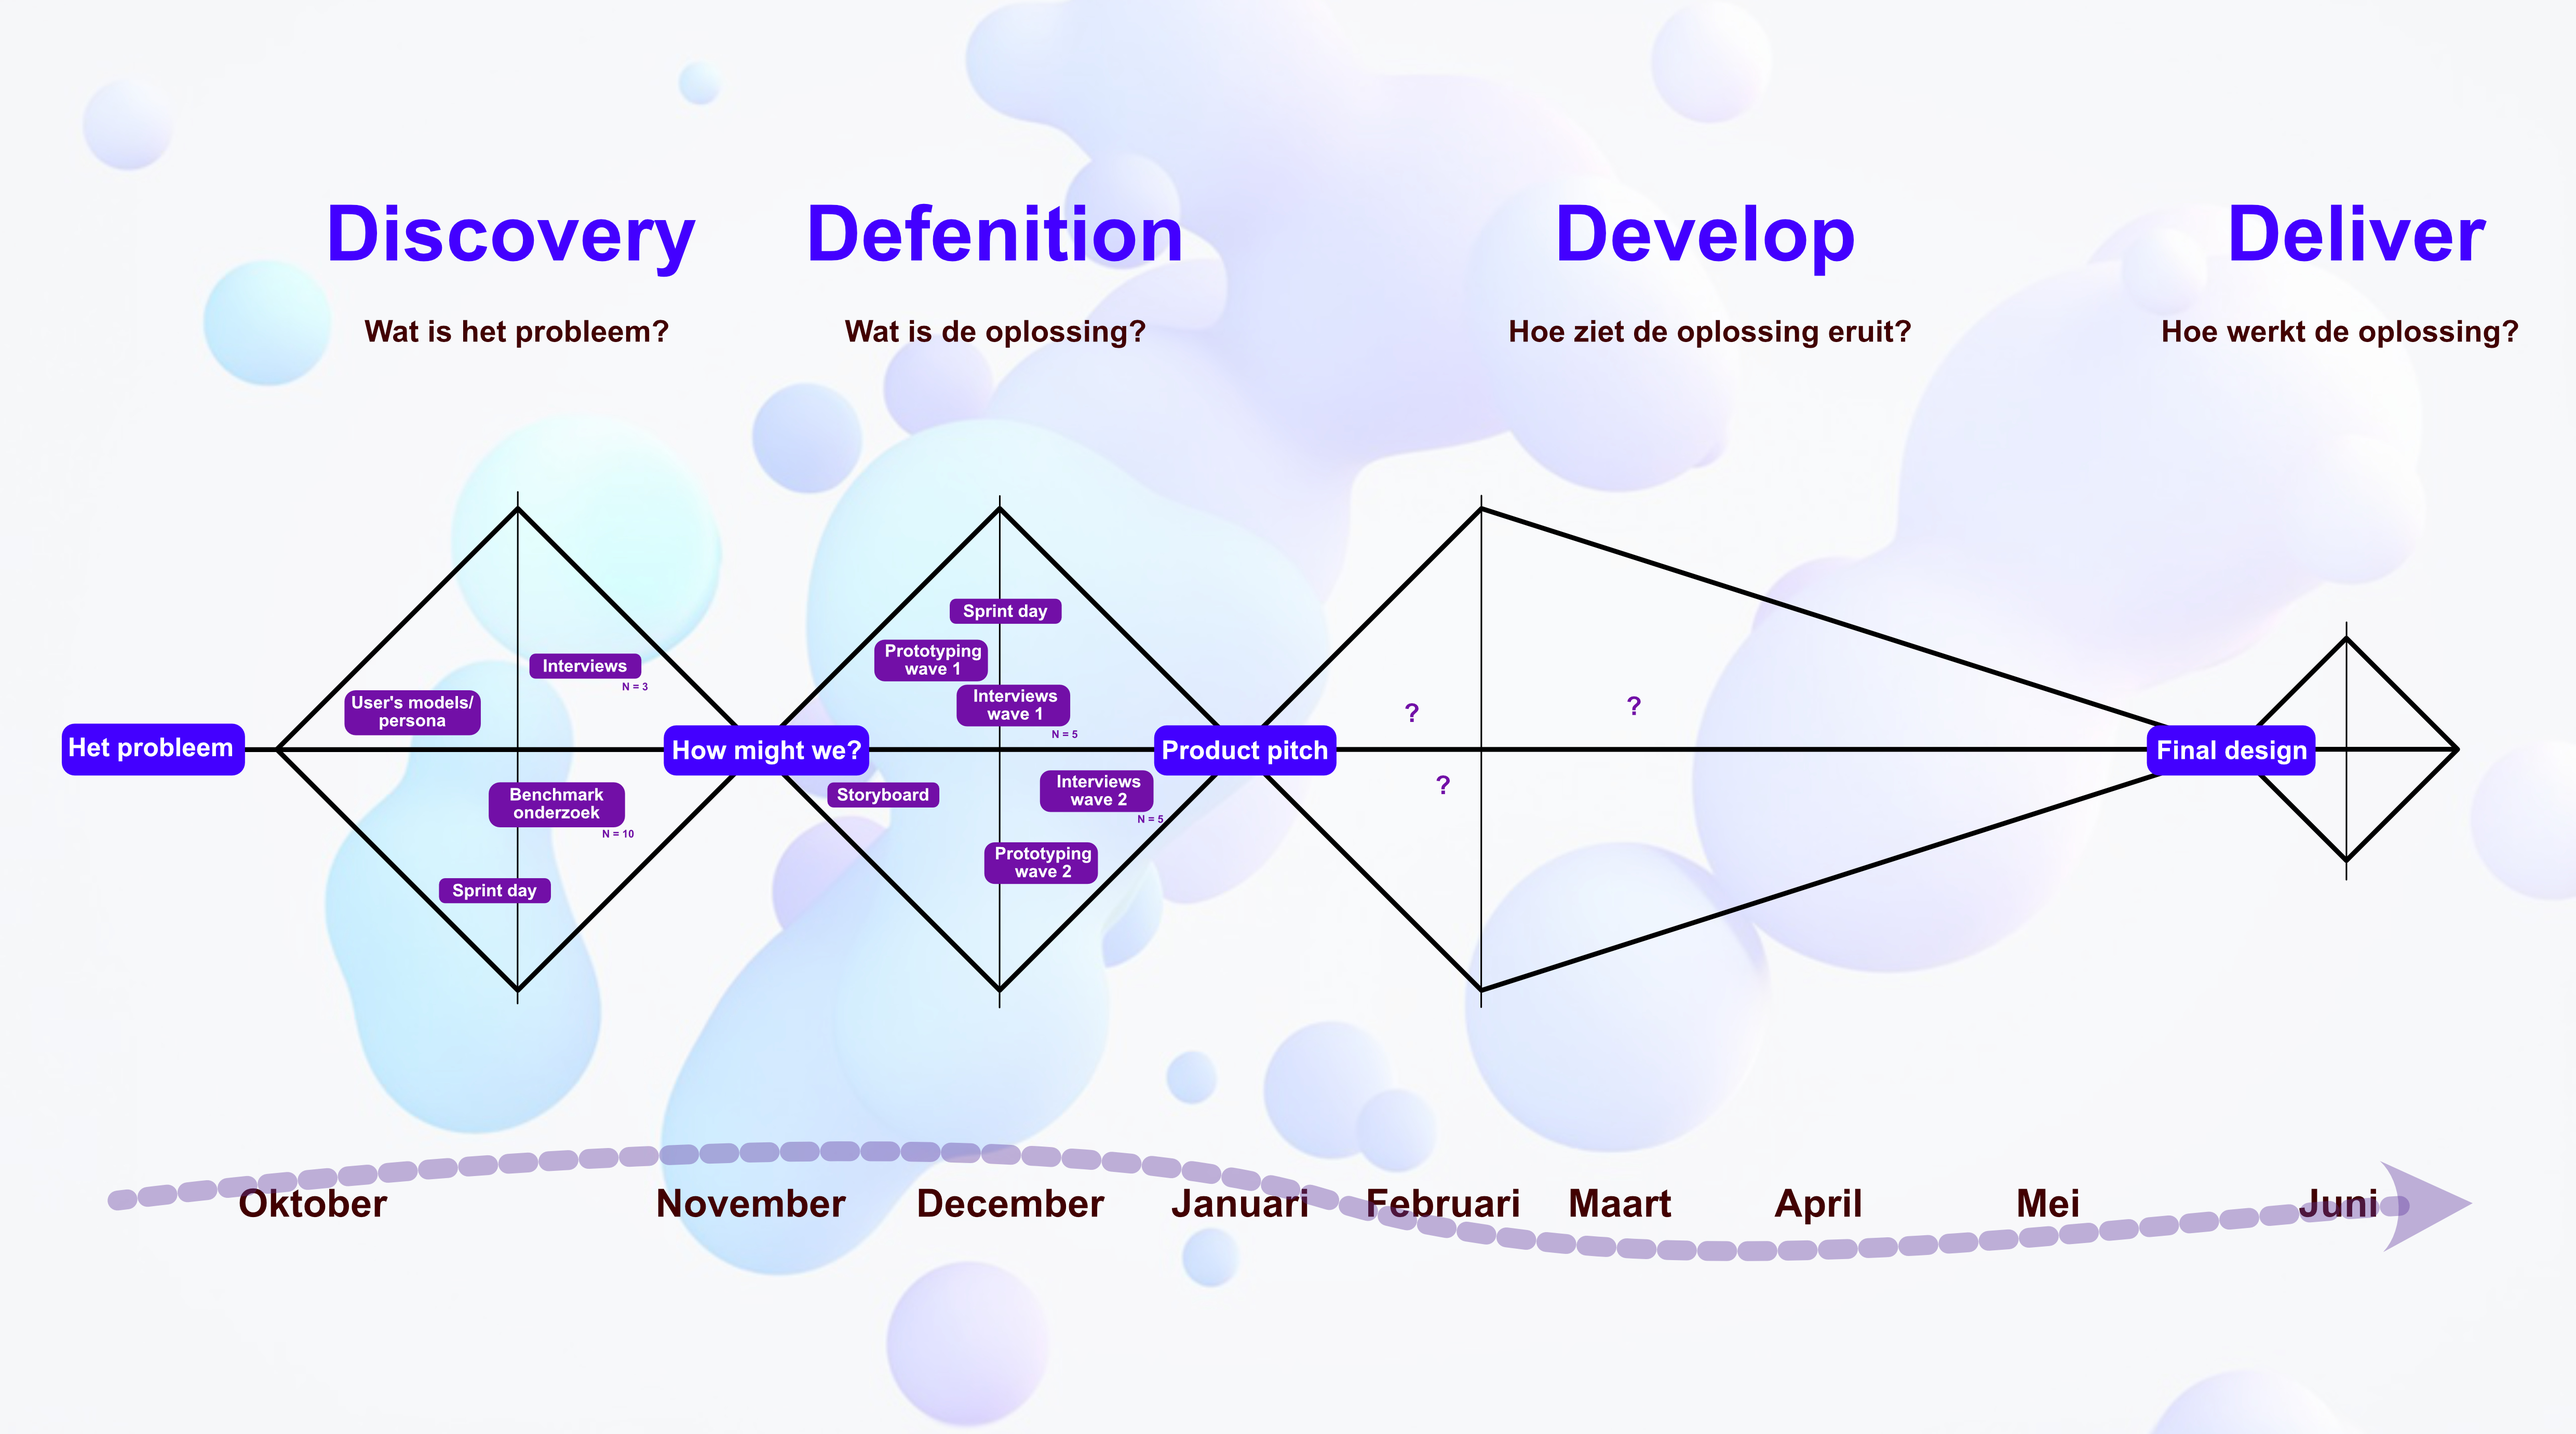
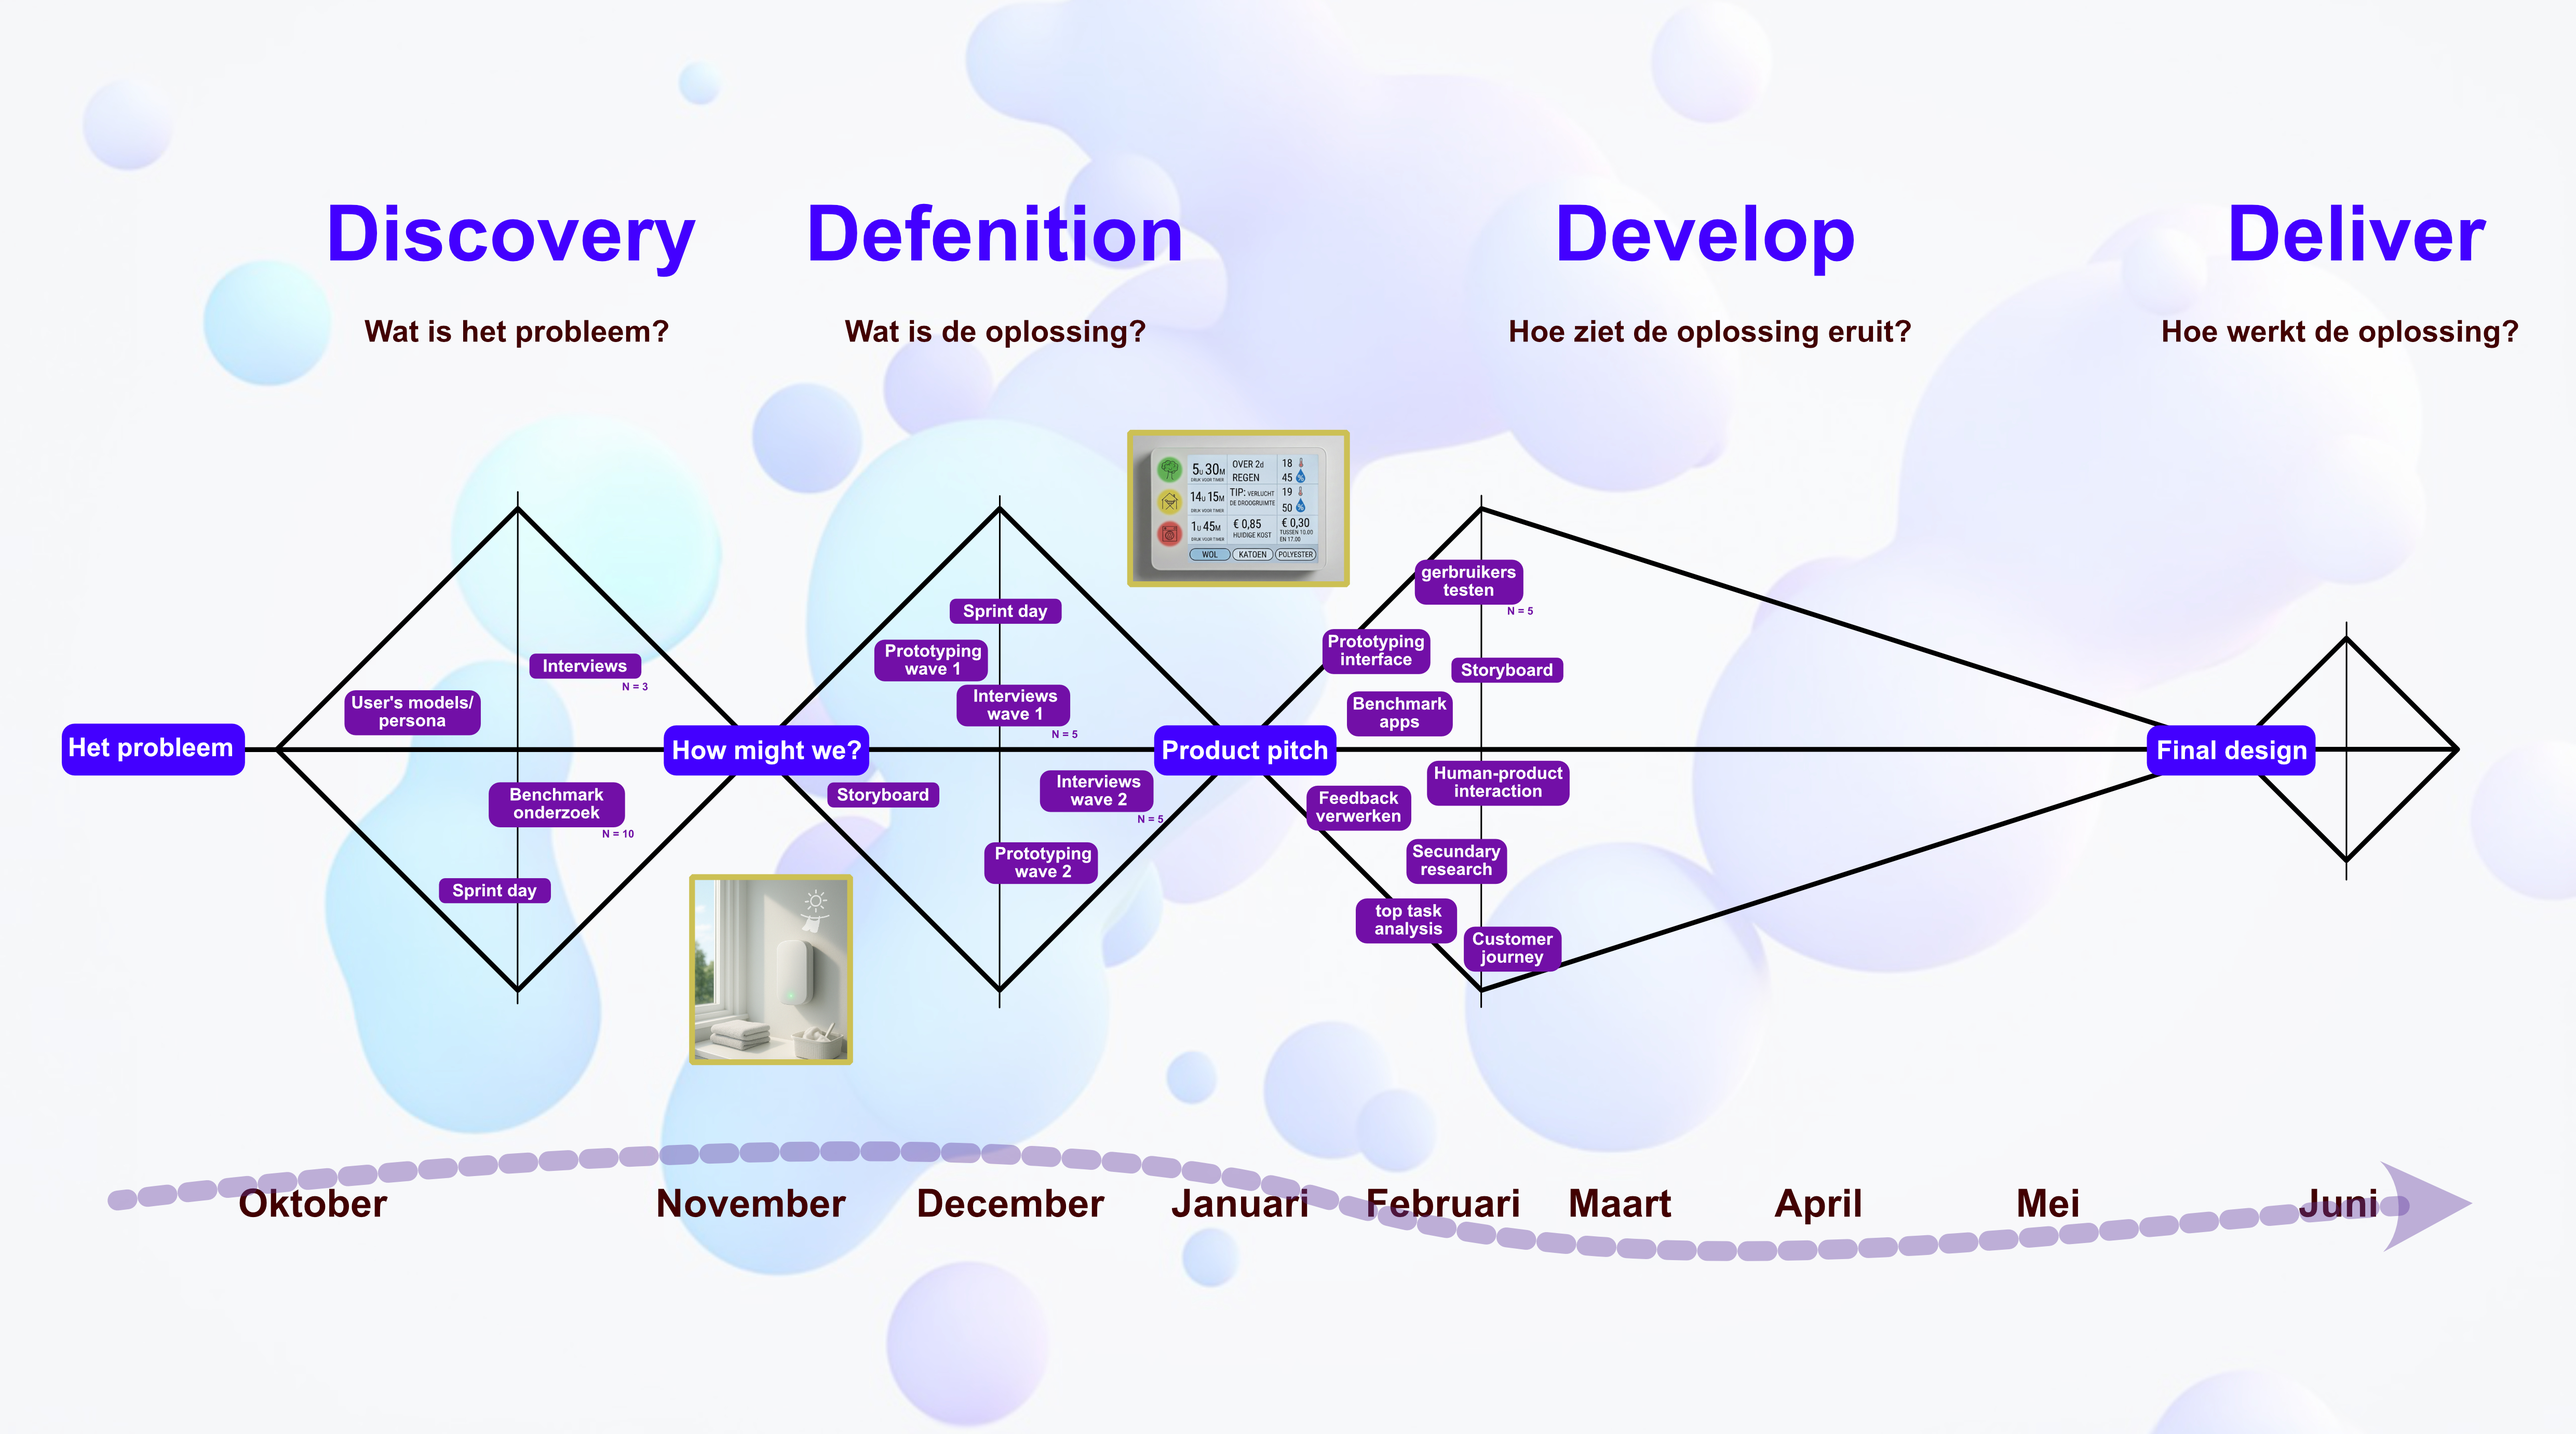
methodologie

Changed region(s): [[0.4374, 0.2801, 0.6249, 0.6848], [0.2499, 0.5914, 0.3437, 0.747]]

diff --git a/docs/methodologie.md b/docs/methodologie.md
@@ -4,34 +4,37 @@ Voor dit project pasten we de Double Diamond-methodologie toe. In het eerste sem
   <img src="img/methodologie.jpg" width="100%">
 </p>
 
-We starten het proces met volgende tijdelijke HMW-vraag: "In hoeverre kan een systeem het energie- en waterverbruik van wasmachines en droogkasten in huishoudens significant verminderen door gedragsbeïnvloeding?"
+Het proces werd geïnitieerd vanuit de volgende voorlopige 'How Might We' (HMW)-vraag:
+"In hoeverre kan een systeem het energie- en waterverbruik van wasmachines en droogkasten in huishoudens significant verminderen door middel van gedragsbeïnvloeding?"
+1. Discovery: Probleemverkenning (oktober – november)
+In deze divergerende fase stond het verzamelen van inzichten centraal. Dit werd gerealiseerd via diverse onderzoeksmethoden: een benchmarkonderzoek (N=10), diepte-interviews (N=5) en het opstellen van persona’s en user models. Hierbij werd getracht antwoorden te formuleren op de volgende centrale deelvragen:
+•	Welke systemen zijn reeds beschikbaar en wat is de functionaliteit van de huidige producten?
+•	Op welke wijze gaan gebruikers om met de huidige situatie (gebruikersgedrag)?
+•	Op welke gebieden kan verbetering worden gerealiseerd?
+De verzamelde informatie werd geanalyseerd middels triangulatie, wat leidde tot bruikbare inzichten voor een eerste conceptvoorstel. De conclusies uit de Discovery-fase zijn als volgt:
+•	Nudging boven monitoring: Er werd een voorkeur vastgesteld voor discrete signalen (bijv. gekleurd licht) boven complexe grafieken.
+•	Aanpakken van 'droog-angst': De oplossing dient ondersteuning te bieden bij het veilig binnenshuis drogen van wasgoed (bijv. via ventilatieadvies).
+•	Ontzorging: Er moeten directe handelingsperspectieven worden geboden (bijv.: "Wacht 5 uur en bespaar €0,50").
+Dit resulteerde in de definitieve HMW-vraag: "Hoe kan een sociaal-inclusief systeem worden ontworpen dat de angst voor vocht wegneemt en de gebruiker ontzorgt bij de keuze voor het juiste wasmoment?"
 
-1. Discovery: Wat is het probleem? (Oktober – November) In deze divergerende fase stond het verzamelen van inzichten centraal. Dit deden we op meerdere manieren: Een benchmarktonderzoek (N=10), Interviews (N=5), het opstellen van persona’s en user models. Hierbij hadden we een paar centrale deelvragen die we wouden beantwoorden:
-- Wat bestaat er al en wat kunnen bestaande producten al?
-- Hoe gaan gebruikers om met de huidige situatie (gedrag)?
-- Waar kunnen wij voor verbetering zorgen?
+2. Definition: Oplossingsdefinitie (november – januari)
+Vanuit de centrale HMW-vraag werd toegewerkt naar een concreet concept. Dit werd vormgegeven door de ontwikkeling van storyboards, die de gebruikscyclus weergeven, en de creatie van een persona. Om de concepten uit de storyboards te valideren, werden twee opeenvolgende testwaves uitgevoerd.
+Per wave werd een reeks prototypes vervaardigd en getest met gebruikers (N=5). Hierbij stonden de volgende deelvragen centraal:
+•	Welke informatie (tijd, kosten, weersomstandigheden) is doorslaggevend voor de besluitvorming?
+•	In welke mate kan de cognitieve belasting worden verlaagd door visuele hiërarchie (kleur, iconen)?
+•	Welke fysieke vormfactor (scherm, knoppen, applicatie) sluit aan bij de routine in de wasruimte?
+In totaal werden acht prototypes getest, waarvan zeven low-fidelity kartonnen modellen en één app-versie (waarbij het winnende prototype uit wave 1 werd doorontwikkeld voor wave 2). Tijdens de gebruikerstests werd het Think Aloud Protocol (TAP) gehanteerd. De sessies werden opgenomen om de latere analyse te faciliteren.
 
-Hierna hebben we de verzamelde info geanalyseerd (gebruikmakend van triangulatie) om tot bruikbare inzichten te komen waarmee we een eerste concept konden voorstellen.
+Conclusies van de Definition-fase:
+Er werd geconstateerd dat uitgebreidere informatie leidt tot een groter vertrouwen in het advies, maar dat eenvoudigere versies hoger scoren op gebruiksvriendelijkheid en efficiëntie. Hoewel iconen effectief zijn voor informatieoverdracht, bleek de interpretatie ervan niet altijd eenduidig. De grootste uitdaging ligt in het vinden van een balans: informatie moet enerzijds eenvoudig worden gepresenteerd, maar anderzijds voldoende diepgang bieden voor complexere gebruikersvragen.
 
-Conclusies van de discovery fase: 
--	Nudging > Monitoring: Geen complexe grafieken, maar discrete signalen (bijv. gekleurd licht).
--	Aanpakken 'Droog-angst': De oplossing moet helpen bij het veilig binnendrogen (bijv. via ventilatieadvies).
--	Ontzorging: Directe handelingsperspectieven bieden: "Wacht 5 uur en bespaar €0,50".
-Wat ons de volgende definitieve HMW-vraag opleverde: "Hoe kunnen we een sociaal-inclusief systeem ontwerpen dat de angst voor vocht wegneemt en de gebruiker ontzorgt bij de keuze voor het juiste wasmoment?"
+Het semester werd in januari afgesloten met een productpitch, die het startpunt vormt voor de opeenvolgende Develop- en Deliver-fasen.
 
-
-2. Definition: Wat is de oplossing? (November – Januari) Vanuit de kernvraag 'How might we?' werkten we in deze fase naar een bruikbaar concept toe. Dit werd gedaan door storyboards te maken die de gebruikscyclus moest weergeven samen met het maken van een persona. Om de concepten van de storyboards te testen werden er twee opeenvolgende testgoven (waves) uitgevoerd. In elke wave werden een reeks prototypes gemaakt en vervolgens werden deze getest met gebruikers (N=5). Hierbij hadden we een paar centrale deelvragen die we wouden beantwoorden:
-
-- Welke informatie (tijd, geld, weer) is doorslaggevend voor de besluitvorming?
-- Hoe kan visuele hiërarchie (kleur, iconen) de cognitieve belasting verlagen?
-- Welke fysieke vormfactor (scherm, knoppen, app) sluit aan bij de routine in de wasruimte?
-
-Elke wave werden er 4 prototypes getest. Waarvan er 6 quick and dirty kartonnen prototypes waren en 1 app versie (het winnende prototype van wave 1 werd hergebruikt voor wave 2).
-
-Voor het testen met de gebruikers werd gebruikgemaakt van het TAP (think aloud protocol) en werden de tests opgenomen om latere analysering te vergemakkelijken.
-
-Conclusies van de definition fase:
-We merkten op dat meer info leidde tot een groter vertrouwen in het advies maar dat de simpelere versies beter scoorden in gebruiksvriendelijk en efficiënt gebruik. De iconen zijn heel handig om info over te brengen maar deze niet altijd duidelijk. Het moeilijkste is een tussen weg zoeken in de juiste hoeveelheid info op een bepaalde manier te presenteren dat het heel duidelijk en simpel in gebruik is maar ook complexere vragen van de gebruiker kan antwoorden.
-
-Afsluiting: We ronden het semester in januari af met een productpitch. Dit vormt het startpunt voor de latere Develop- en Deliver-fasen.
-
+3. Develop 1: Architectuur en Onderbouwing (februari – maart)
+Deze fase werd aangevangen met de verwerking van de feedback uit de productpitch. Er werd aanvullend benchmarkonderzoek verricht naar bestaande drooghulp-applicaties, waarna de ontwikkeling van een nieuwe interface werd gestart.
+Ter onderbouwing van de ontwerpbeslissingen werden de volgende methoden ingezet:
+•	Top task analysis
+•	Customer journey mapping
+•	Human-product interaction analyse
+•	Secundair onderzoek (literatuurstudie)
+Vervolgens werd de nieuwe, gelaagde interface door gebruikers (N=4) getest in een realistisch scenario. De Develop 1-fase wordt afgesloten met de analyse van deze resultaten, op basis waarvan de verdere stappen worden gepland.
